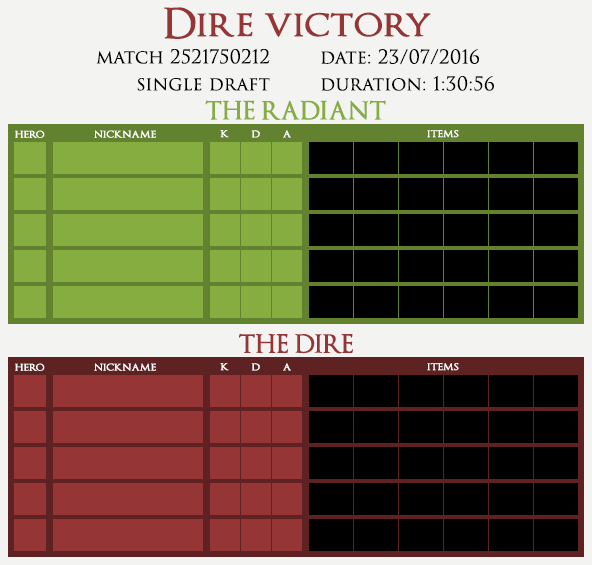
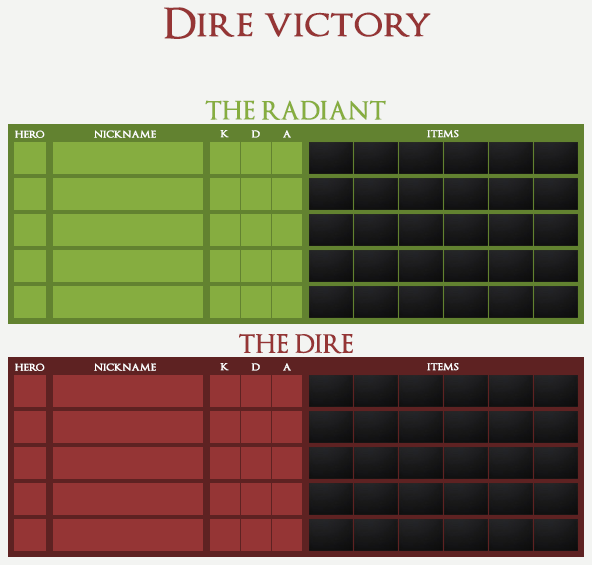
add new post_game algorythm

diff --git a/cogs/utils/post_game_screen.py b/cogs/utils/post_game_screen.py
@@ -1,0 +1,111 @@
+import cv2
+from PIL import ImageFont, ImageDraw
+from PIL import Image
+import datetime
+from token_and_api_key import *
+from .resources import db
+from .hero_dictionary import *
+def length_check(name, font):
+    global draw
+    n = 0
+    length, _ = draw.textsize(name, font=font)
+    while length > 133:
+        name = name[:-1]
+        length, _ = draw.textsize(name, font=font)
+        n += 1
+    if n:
+        name += "..."
+        length, _ = draw.textsize(name, font=font)
+    center = length//2
+
+    return 128-center, name
+
+def fill_template(hero, item, team, match):
+    global template, draw
+    x, y = hero
+    x1, y1 = item
+    for k in range(5):
+        player = match['players'][k + team * 5]
+        hero_name = hero_dic[player['hero_id']]
+
+        hero = cv2.imread('images/heroes/{} icon.png'.format(hero_name.lower()), -1)
+        roi = template[y + k * 36: y + 32 + k * 36, x: x + 32]
+        for i in range(32):
+            for j in range(32):
+                if hero[i, j][3] == 255:
+                    roi[i, j] = hero[i, j]
+        template[y + k * 36: y + 32 + k * 36, x: x + 32] = roi
+
+        item_list = []
+        # проверка на пустые слоты
+        for m in range(6):
+            try:
+                item_name = item_dic[player['item_{}'.format(m)]]
+                
+                item = cv2.imread('images/items/{} icon.png'.format(item_name.lower()), -1)
+                item_list.append(item)
+            except KeyError:
+                continue
+        for q, slot in enumerate(item_list):
+            template[
+                y1 + k * 36: y1 + 32 + k * 36,
+                x1 + 45 * q: x1 + 44 + 45 * q
+                ] = slot
+
+
+def write_param(x, y, param, font):
+    global draw
+    length, _ = draw.textsize(param, font=font)
+    start_point = x - length if x == 269 else x
+    draw.text((start_point, y), param, font=font, fill='black')
+
+def post_game(match_id):
+    global draw, template
+    match = db.get_match_stat(match_id)
+    font = ImageFont.truetype(font_path, 19)
+    font1 = ImageFont.truetype(font1_path, 19)
+
+    if bool(match['radiant_win']):
+        template = cv2.imread('images/radiant.png', -1)
+    else:
+        template = cv2.imread('images/dire.png', -1)
+
+    fill_template((14, 142), (309, 142), 0, match)
+    fill_template((14, 375), (309, 375), 1, match)
+    cv2.imwrite('images/lineup/postgame.png', template)
+
+    im = Image.open('images/lineup/postgame.png')
+    draw = ImageDraw.Draw(im)
+
+    for i in range(10):
+        y_param = 150 if i < 5 else 203
+        player = match['players'][i]
+        try:
+            name = player['personaname']
+        except KeyError:
+            name = "Unknown"
+        start_point, name = length_check(name, font)
+        draw.text((start_point, y_param + i * 36), name, font=font, fill='white')
+        kda = [
+            player['kills'],
+            player['deaths'],
+            player['assists']
+            ]
+        kda = [str(x) for x in kda]
+        for j, stat in enumerate(kda):
+            length, _ = draw.textsize(str(stat), font=font1)
+            start_point = 225 - length//2 + j*31
+            draw.text((start_point, y_param + i * 36), stat, font=font1, fill='white')
+
+        match_id = 'Match id {}'.format(match['match_id'])
+        game_mode = game_mode_dic[match['game_mode']]
+        m, s = divmod(match['duration'], 60)
+        duration = "Duration {0}:{1}".format(m, s)
+        date = datetime.datetime.fromtimestamp(
+                int(match['start_time'])).strftime('%d-%m-%Y %H:%M:%S')
+
+        write_param(269, 78, match_id, font)
+        write_param(269, 51, game_mode, font)
+        write_param(321, 78, duration, font)
+        write_param(321, 51, date, font)
+        im.save('images/lineup/postgame.png')

diff --git a/parsing_utils/game-history-parser.py b/parsing_utils/game-history-parser.py
@@ -1,7 +1,9 @@
 from parser import Parser
 from token_and_api_key import *
 from hero_dictionary import hero_dic
-from cogs.utils.resources import db
+from DotaDatabase import DotaDatabase
+db = DotaDatabase('dota2-db')
+db.connect()
 
 k = 0
 ids_to_parse = []
@@ -37,16 +39,34 @@ for player_id in ids_to_parse:
 
         for i in match_ids:
             cursor = db.get_match_stat(i)
-            if not len(cursor):
+            if not cursor:
                 while True:
                     try:
-                        data2 = Parser.get_match_details(i)
+                        match = Parser.get_match_details(i)
                     except:
                         continue
                     else:
                         break
 
-                db.add_match_stat(data2)
+                db.add_match_stat(match)
+                dota_ids = []
+                for q in range(10):
+                    dota_ids.append(match['players'][q]['account_id'])
+
+                steam_arr = Parser.get_steam_info(dota_ids)
+
+                for q in range(10):
+
+                    player = match['players'][q]
+
+                    steam_name = 0
+                    for _, entry in enumerate(steam_arr):
+                        if player['account_id'] + 76561197960265728 == int(entry['steamid']):
+                            steam_name = entry['personaname']
+                    if not steam_name:
+                        steam_name = "Unknown"
+                    db.update_name(steam_name, match['match_id'], player['account_id'])
+
                 k += 1
                 print("{}({})".format(k, j))
             else:

diff --git a/cogs/stats.py b/cogs/stats.py
@@ -6,7 +6,7 @@ from .utils.hero_graph import hero_per_month
 from .utils.hero_dictionary import hero_dic
 from .utils.resources import db
 from csv import reader
-
+from .utils.post_game_screen import post_game
 
 class Stats:
     """Dota-related stats"""
@@ -68,7 +68,7 @@ class Stats:
     @commands.command(pass_context=True)
     async def wr_with(self, ctx, *, msg):
         """Your winrate with players (takes up to 4 arguments)"""
-        names = msg.split()
+        #NAMES!!!!!!!!!!!!!!!!
         player_id = db.get_acc_id(ctx.message.author.id, ctx.message.server.id)
         players = []
         for member in ctx.message.server.members:
@@ -145,6 +145,16 @@ class Stats:
             reply = sf.all_time_records(player_id)
         await self.bot.say(reply)
 
-
+    @commands.command(pass_context=True)
+    async def final_score(self, ctx, number: int):
+        player_id = db.get_acc_id(ctx.message.author.id, ctx.message.server.id)
+        criteria = {'players.account_id': player_id}
+        matches = db.get_match_list(criteria)
+        try:
+            match_id = matches[number]['match_id']
+        except ValueError:
+            await self.bot.say("Invalid match number")
+        post_game(match_id)
+        await self.bot.send_file(ctx.message.channel, 'images/lineup/postgame.png')
 def setup(bot):
     bot.add_cog(Stats(bot))

diff --git a/parsing_utils/recent_games_parser.py b/parsing_utils/recent_games_parser.py
@@ -28,9 +28,28 @@ def get_recent_matches(player_id):
         return "Dota 2 api is down"
     if len(match_ids) != 0:
         for i in match_ids:
-            data2 = Parser.get_match_details(i)
-            if data2:
-                db.add_match_stat(data2)
+            match = Parser.get_match_details(i)
+            if match:
+                db.add_match_stat(match)
+
+                dota_ids = []
+                for j in range(10):
+                    dota_ids.append(match['players'][j]['account_id'])
+
+                steam_arr = Parser.get_steam_info(dota_ids)
+
+                for j in range(10):
+
+                    player = match['players'][j]
+
+                    steam_name = 0
+                    for _, entry in enumerate(steam_arr):
+                        if player['account_id'] + 76561197960265728 == int(entry['steamid']):
+                            steam_name = entry['personaname']
+                    if not steam_name:
+                        steam_name = "Unknown"
+                    db.update_name(steam_name, match['match_id'], player['account_id'])
+
                 p += 1
             else:
                 return "Dota 2 api is down"

diff --git a/parsing_utils/parser.py b/parsing_utils/parser.py
@@ -67,11 +67,23 @@ class Parser:
         else:
             return data['matches']
 
-    def get_steam_info(account_id):
-        steamid64 = 76561197960265728 + int(account_id)
-        html = urlopen(get_account_info.format(api_key, steamid64)).read()
+    def get_steam_info(account_ids):
+
+        account_ids = [x + 76561197960265728 for x in account_ids]
+        url = get_account_info
+        for ID in account_ids:
+            url += '{},'.format(str(ID))
+        html = urlopen(url.format(api_key)).read()
         data = json.loads(html.decode('utf-8'))
-        return data['response']
+        return data['response']['players']
+
+
+    def get_steam_nickname(account_ids):
+        data = Parser.get_steam_info(account_ids)
+        if data:
+            return data[0]['personaname']
+        else:
+            return "Unknown"
     #def get playernumber:
 
     #def get league listing

diff --git a/cogs/utils/DotaDatabase.py b/cogs/utils/DotaDatabase.py
@@ -34,6 +34,17 @@ class DotaDatabase:
             dic.update(entry[str(server)])
         return list(dic.values())
 
+    def update_name(self, steam_name, match_id, account_id):
+        self.db['matches_all'].update_one(
+                            {'$and':
+                                [
+                                    {'match_id': match_id},
+                                    {"players.account_id": account_id}
+                                ]
+                            },
+                            {"$set": {"players.$.personaname": steam_name}}
+                        )
+
     def get_server_list(self):
         # there definetly should be a better way
         servers = list(self.db['steamids'].find())

diff --git a/parsing_utils/urls.py b/parsing_utils/urls.py
@@ -5,5 +5,5 @@ get_match_url = "https://api.steampowered.com/IDOTA2Match_570/GetMatchDetails/V0
 get_leagues = "https://api.steampowered.com/IDOTA2Match_570/GetLeagueListing/v0001/?key={0}"
 get_games = "https://api.steampowered.com/IDOTA2Match_570/GetLiveLeagueGames/v0001/?key={0}"
 get_team_list = "https://api.steampowered.com/IDOTA2Match_570/GetTeamInfoByTeamID/v001/?key={0}"
-get_account_info = "http://api.steampowered.com/ISteamUser/GetPlayerSummaries/v0002/?key={0}&steamids={1}"
+get_account_info = "http://api.steampowered.com/ISteamUser/GetPlayerSummaries/v0002/?key={0}&steamids="
 get_upcoming_games = "http://dailydota2.com/match-api"
